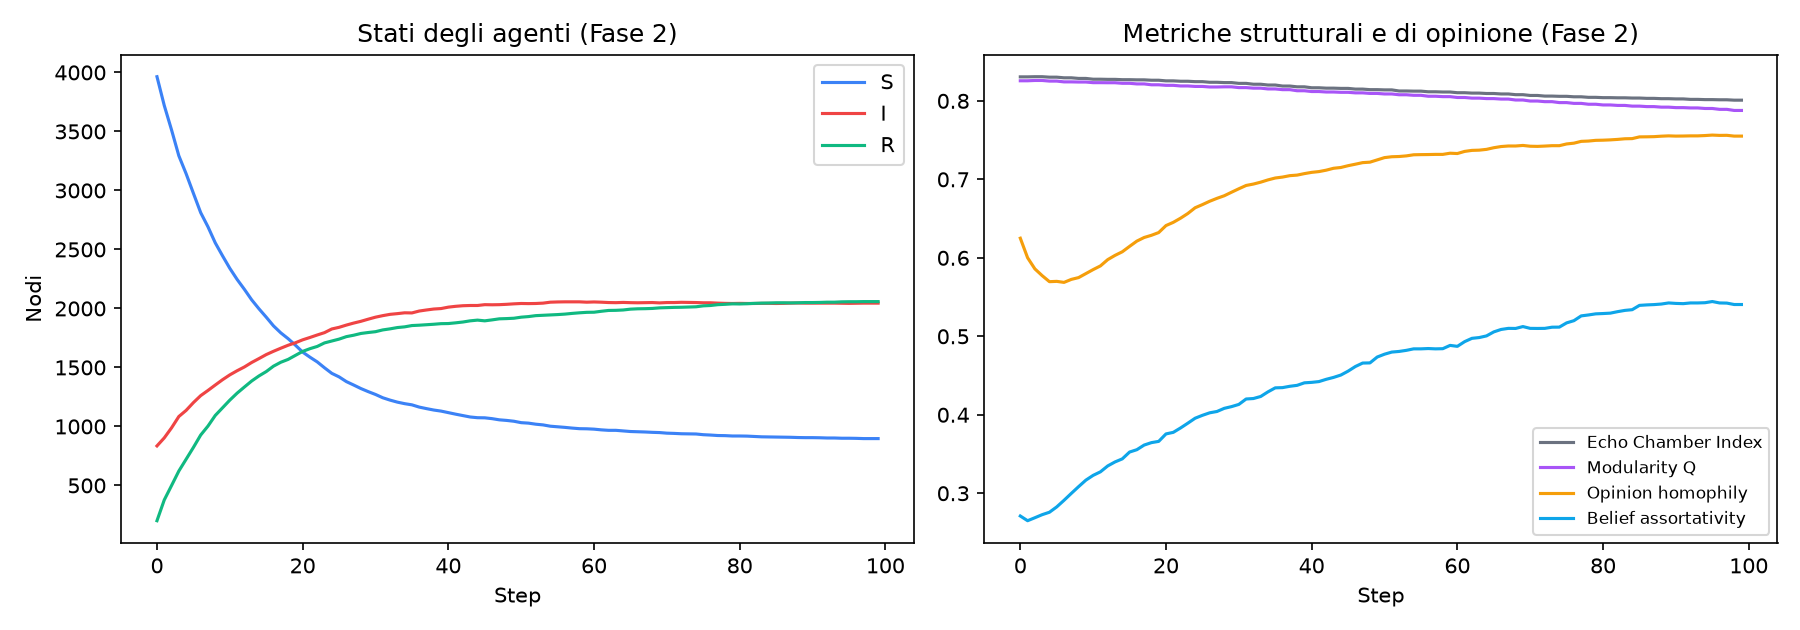
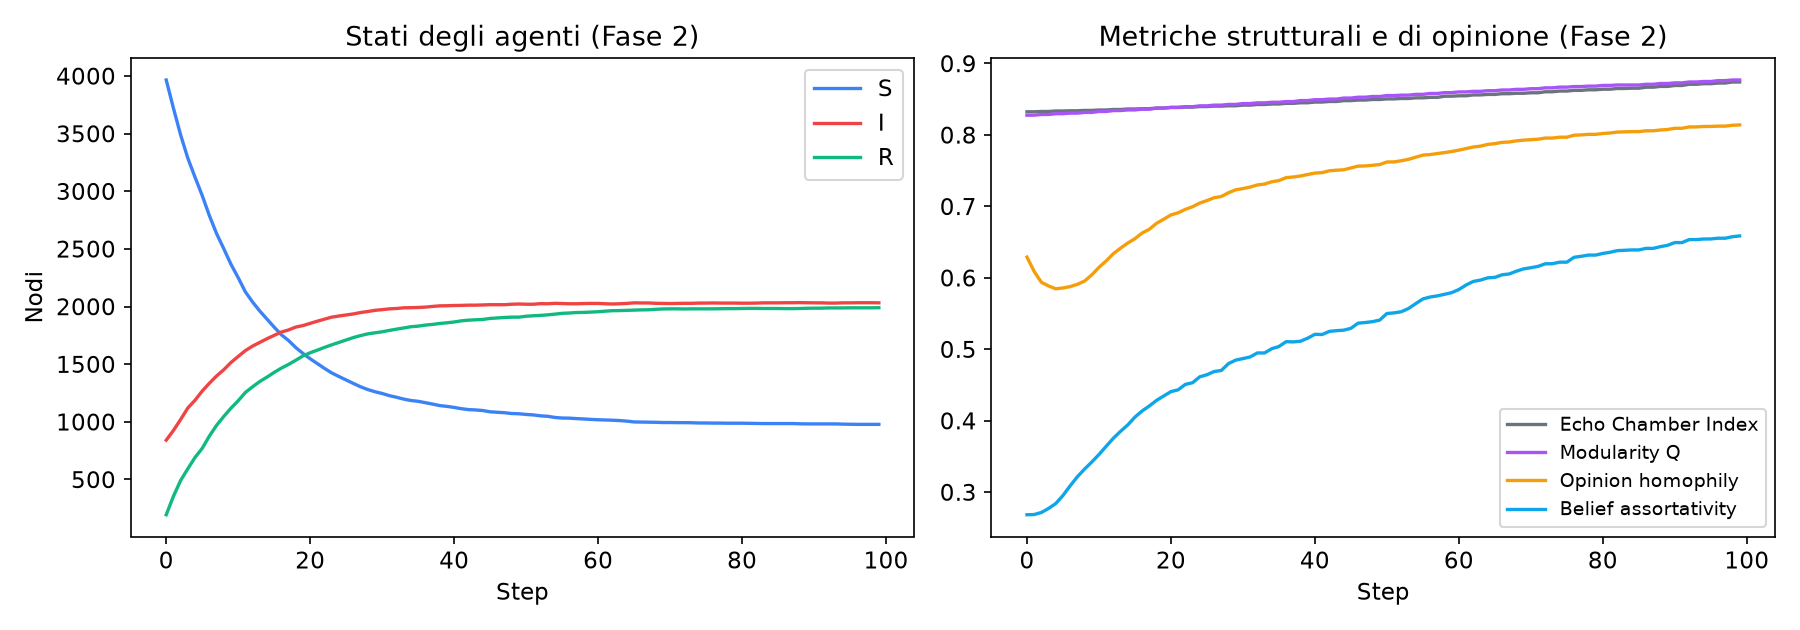
docs: update report and README with Phase 2 and Phase 3 results of the new run
- README: results section with Phase 2 trajectory and intervention vs control
- Report: Phase 2 table and text (ECI and modularity now rise), Phase 3
  comparison, network figure, conclusions and pipeline summary updated
- Regenerate Phase 2 and Phase 3 figures from the new CSVs
- Replace references to the non-existent phase3_run.py and compare_phase3.py
  with the notebook cells
- Rename control metrics to metrics_history_control.csv so the comparison
  cell finds it

diff --git a/relazione/progettoASM_relazione.tex b/relazione/progettoASM_relazione.tex
@@ -230,7 +230,7 @@ La tabella seguente riporta il confronto quantitativo dettagliato tra le due ret
     \label{tab:validazione-strutturale}
 \end{table}
 
-Il rapporto di campionamento risulta pari al 2.1\% dei nodi originali. Dal punto di vista computazionale, il calcolo delle metriche sul grafo completo ha richiesto circa 110.4 secondi, contro appena 0.4 secondi per il sottografo, con un guadagno di efficienza di oltre due ordini di grandezza. Nel complesso, i valori di clustering e grado medio si mantengono coerenti tra le due reti (scostamenti contenuti entro il $\pm 30\%$), a conferma della bontà del campionamento; l'aumento della modularità nel sottografo ($+18.8\%$) è in parte un effetto atteso della riduzione di scala, che tende a rendere più nette le partizioni in comunità più piccole e numericamente meno frammentate.
+Il rapporto di campionamento risulta pari al 2.1\% dei nodi originali. Dal punto di vista computazionale, il calcolo delle metriche sul grafo completo ha richiesto circa 114 secondi, contro appena 0.4 secondi per il sottografo, con un guadagno di efficienza di oltre due ordini di grandezza. Nel complesso, i valori di clustering e grado medio si mantengono coerenti tra le due reti (scostamenti contenuti entro il $\pm 30\%$), a conferma della bontà del campionamento; l'aumento della modularità nel sottografo ($+18.8\%$) è in parte un effetto atteso della riduzione di scala, che tende a rendere più nette le partizioni in comunità più piccole e numericamente meno frammentate.
 
 \subsubsection{Metriche Baseline del Sottografo}
 Una volta completata l'estrazione, il modulo \texttt{metrics} calcola l'intero set di metriche baseline sul sottografo di lavoro (5000 nodi), che costituiscono il punto di riferimento (t=0) rispetto al quale verrà misurata l'evoluzione della rete nelle fasi successive.
@@ -431,22 +431,22 @@ L'esecuzione documentata usa l'LLM reale in tutte le fasi. La Fase 2 comprende 1
         \toprule
         \textbf{Step} & \textbf{S} & \textbf{I} & \textbf{R} & \textbf{ECI} & \textbf{Mod. Q} & \textbf{Op. homophily} & \textbf{Belief assort.} \\
         \midrule
-        0  & 3\,964 & 835    & 201    & 0.831 & 0.826 & 0.625 & 0.271 \\
-        25 & 1\,420 & 1\,840 & 1\,740 & 0.825 & 0.818 & 0.668 & 0.399 \\
-        49 & 1\,044 & 2\,039 & 1\,917 & 0.814 & 0.810 & 0.725 & 0.474 \\
-        75 & 930    & 2\,048 & 2\,022 & 0.806 & 0.798 & 0.745 & 0.517 \\
-        99 & 897    & 2\,045 & 2\,058 & 0.801 & 0.788 & 0.755 & 0.541 \\
+        0  & 3\,965 & 841    & 194    & 0.832 & 0.828 & 0.629 & 0.268 \\
+        25 & 1\,363 & 1\,927 & 1\,710 & 0.840 & 0.841 & 0.708 & 0.464 \\
+        49 & 1\,070 & 2\,022 & 1\,908 & 0.850 & 0.854 & 0.759 & 0.541 \\
+        75 & 990    & 2\,030 & 1\,980 & 0.861 & 0.867 & 0.797 & 0.622 \\
+        99 & 978    & 2\,032 & 1\,990 & 0.874 & 0.877 & 0.814 & 0.659 \\
         \bottomrule
     \end{tabular}
     \caption{Andamento della Fase 2 a intervalli di circa 25 step.}
     \label{tab:fase2}
 \end{table}
 
-Il grafico di sinistra mostra un tipico andamento epidemico. La popolazione Suscettibile decresce da 3\,964 a 897 unità; gli Infetti crescono rapidamente nei primi 50 step e poi si stabilizzano intorno al 41\% dei nodi (picco di 2\,056 infetti allo step 56). I Resistenti continuano a crescere più a lungo e alla fine superano gli Infetti (2\,058 contro 2\,045).
+Il grafico di sinistra mostra un tipico andamento epidemico. La popolazione Suscettibile decresce da 3\,965 a 978 unità; gli Infetti superano i Suscettibili già allo step 16, crescono rapidamente nei primi 30 step e poi si stabilizzano intorno al 41\% dei nodi (picco di 2\,034 infetti allo step 88). I Resistenti crescono con lo stesso andamento ma restano sempre leggermente sotto gli Infetti (1\,990 contro 2\,032 allo step 99).
 
-Il grafico di destra mette a confronto due letture della segregazione. Le metriche strutturali calano leggermente: la modularità passa da 0.826 a 0.788 e l'Echo Chamber Index da 0.831 a 0.801. Le metriche di opinione crescono invece in modo marcato: la belief assortativity raddoppia (da 0.27 a 0.54) e l'opinion homophily sale da 0.63 a 0.76. I nodi tendono quindi sempre più a essere connessi a chi la pensa come loro, ma le echo chamber che emergono non coincidono con le community iniziali della rete di co-autoraggio: si formano lungo le opinioni.
+Il grafico di destra mette a confronto due letture della segregazione, che in questa run crescono entrambe. Le metriche strutturali salgono in modo graduale e regolare: la modularità passa da 0.828 a 0.877 e l'Echo Chamber Index da 0.832 a 0.874. Le metriche di opinione crescono in modo molto più marcato: la belief assortativity sale da 0.27 a 0.66 (circa due volte e mezzo) e l'opinion homophily da 0.63 a 0.81, dopo un calo iniziale nei primi 4 step dovuto alla prima ondata di contagio. Il rewiring guidato dalla GNN rafforza quindi le community esistenti della rete di co-autoraggio e, in misura maggiore, raggruppa i nodi che condividono la stessa opinione.
 
-Il rewiring sostituisce complessivamente 2\,500 archi in 100 step, circa il 10\% della rete, a densità costante (26\,246 archi). Alla fine della Fase 2 la rete conta 46 componenti connesse invece di una: il vincolo di sicurezza impedisce di isolare singoli nodi, ma il rewiring può staccare piccoli gruppi dal resto della rete.
+Il rewiring sostituisce complessivamente 2\,500 archi in 100 step, circa il 10\% della rete, a densità costante (26\,246 archi). Alla fine della Fase 2 la rete conta 86 componenti connesse invece di una: il vincolo di sicurezza impedisce di isolare singoli nodi, ma il rewiring può staccare piccoli gruppi dal resto della rete.
 
 \subsection{Fase 3: Intervento e Fact-Checking}
 L'ultima fase simula una contromisura strategica contro la diffusione della narrazione polarizzante.
@@ -457,18 +457,18 @@ L'ultima fase simula una contromisura strategica contro la diffusione della narr
 
 La Fase 3 — \textit{Deployment \& Fact-Checking} — ha lo scopo di valutare l'efficacia delle strategie di contrasto alla disinformazione all'interno della rete sociale simulata. Introduce un sottoinsieme di agenti con il ruolo di Fact-Checker (stato F), con l'obiettivo di frenare l'infezione della narrazione polarizzante e spingere gli agenti infetti (I) o suscettibili (S) a diventare resistenti (R).
 
-\paragraph{Disegno sperimentale: intervento e controllo.} Un semplice confronto ``prima/dopo'' su una sola run mescolerebbe l'effetto dei fact-checker con l'evoluzione spontanea della rete, che continua a cambiare anche senza intervento. Per isolare l'effetto, la Fase 3 viene eseguita due volte a partire dallo stesso checkpoint di fine Fase 2 e per lo stesso numero di step: una run con l'iniezione dei fact-checker e una run di controllo senza (\texttt{CONTROL\_RUN = True}, oppure \texttt{phase3\_run.py --no-celf}). Grazie al seed per richiesta dell'LLM, le due run ricevono le stesse risposte finché i prompt coincidono. L'effetto dell'intervento è la differenza tra le due run allo stesso step.
+\paragraph{Disegno sperimentale: intervento e controllo.} Un semplice confronto ``prima/dopo'' su una sola run mescolerebbe l'effetto dei fact-checker con l'evoluzione spontanea della rete, che continua a cambiare anche senza intervento. Per isolare l'effetto, la Fase 3 viene eseguita due volte a partire dallo stesso checkpoint di fine Fase 2 e per lo stesso numero di step: una run con l'iniezione dei fact-checker e una run di controllo senza (\texttt{CONTROL\_RUN = True} nel notebook). Grazie al seed per richiesta dell'LLM, le due run ricevono le stesse risposte finché i prompt coincidono. L'effetto dell'intervento è la differenza tra le due run allo stesso step.
 
-\subsubsection{Il Flusso di Esecuzione in phase3\_run.py}
+\subsubsection{Il Flusso di Esecuzione della Fase 3}
 Il processo si sviluppa attraverso sette passaggi logici:
 \begin{enumerate}
-    \item \textbf{Ripristino dello stato:} lo script \texttt{phase3\_run.py} inizializza il \texttt{CheckpointManager} e l'orchestratore \texttt{SimulationOrchestrator} per ricaricare l'ultimo checkpoint salvato al termine della Fase 2 (co-evoluzione).
+    \item \textbf{Ripristino dello stato:} il notebook inizializza il \texttt{CheckpointManager} e l'orchestratore \texttt{SimulationOrchestrator} per ricaricare l'ultimo checkpoint salvato al termine della Fase 2 (co-evoluzione).
     \item \textbf{Calcolo della baseline pre-intervento:} vengono calcolate le metriche strutturali e di opinione correnti (Infection Rate, modularità Q, Echo Chamber Index, polarizzazione, omofilia e assortatività delle opinioni) per registrare lo stato della rete prima dell'iniezione.
     \item \textbf{Verifica della soglia e selezione dei seed:} l'intervento si attiva se l'infection rate supera \texttt{activation\_threshold} (0.4); il parametro \texttt{FORCE\_INJECTION} consente di iniettare comunque, registrandolo nel report. Vengono poi selezionati i $k$ nodi in cui posizionare i fact-checker. Nella run di controllo questo passaggio e il successivo vengono saltati.
     \item \textbf{Iniezione dei fact-checker:} la classe \texttt{FactCheckerInjector} converte lo stato dei nodi selezionati in F e vi inserisce un post iniziale di fact-checking per attivare la propagazione nei feed dei rispettivi vicini; lo stato degli agenti viene poi sincronizzato con il grafo (\texttt{sync\_agent\_states}).
     \item \textbf{Simulazione post-intervento:} l'orchestratore fa avanzare la simulazione per $N$ step post-intervento, ripartendo dallo step successivo all'ultimo della Fase 2. Durante questa fase gli agenti vicini ai nodi F leggono i post correttivi e, in base alle soglie e al loro livello cognitivo di suscettibilità, possono transitare in R. Gli step vengono eseguiti dalla stessa istanza dell'\texttt{SimulationOrchestrator}, con lo stesso LLM reale (server vLLM locale) impiegato nelle fasi precedenti.
     \item \textbf{Confronto delle metriche:} viene calcolato il report finale con le metriche di fine run, le metriche dei fact-checker e le variazioni rispetto alla baseline pre-intervento.
-    \item \textbf{Salvataggio del report:} tutti i dati dell'intervento (inclusi i node ID scelti e la stima dei nodi coperti) vengono scritti in \texttt{results/phase3\_report.json}, oppure in \texttt{results/phase3\_report\_control.json} per la run di controllo. Lo script \texttt{scripts/compare\_phase3.py} confronta infine le due run e salva l'effetto dell'intervento in \texttt{results/phase3\_comparison.json}.
+    \item \textbf{Salvataggio del report:} tutti i dati dell'intervento (inclusi i node ID scelti e la stima dei nodi coperti) vengono scritti in \texttt{results/phase3\_report.json}, oppure in \texttt{results/phase3\_report\_control.json} per la run di controllo. L'ultima cella del notebook (\textit{Confronto Intervento vs Controllo}) confronta infine le due run, usando solo i report con il flag \texttt{control\_run} atteso e almeno uno step di Fase 3, e salva l'effetto dell'intervento in \texttt{results/phase3\_comparison.json}.
 \end{enumerate}
 
 \subsubsection{Moduli Richiamati nella Fase 3}
@@ -499,7 +499,7 @@ La Fase 3 si appoggia sul sottosistema di mitigazione dell'influenza ideologica 
 \end{itemize}
 
 \subsubsection{Risultati: Intervento a Confronto con il Controllo}
-Entrambe le run partono dal checkpoint dello step 99 ed eseguono 30 step post-intervento (step 100--129), con \texttt{CELF\_BUDGET\_K = 20}. L'intervento è partito con un infection rate di 0.409, sopra la soglia di attivazione (0.4), quindi senza forzature. La selezione con obiettivo \texttt{threshold} ha scelto 20 nodi suscettibili, con una stima di 163 nodi coperti.
+Entrambe le run partono dal checkpoint dello step 99 ed eseguono 30 step post-intervento (step 100--129), con \texttt{CELF\_BUDGET\_K = 20}. L'intervento è partito con un infection rate di 0.406, sopra la soglia di attivazione (0.4), quindi senza forzature. La selezione con obiettivo \texttt{threshold} ha scelto 20 nodi suscettibili, con una stima di 162 nodi coperti.
 
 \begin{table}[h]
     \centering
@@ -508,16 +508,16 @@ Entrambe le run partono dal checkpoint dello step 99 ed eseguono 30 step post-in
         \toprule
         \textbf{Metrica (step 129)} & \textbf{Con fact-checker} & \textbf{Controllo} & \textbf{Effetto} \\
         \midrule
-        Nodi S               & 699    & 855    & $-156$ (di cui 20 seed divenuti F) \\
-        Nodi I               & 2\,040 & 2\,056 & $-16$ \\
-        Nodi R               & 2\,241 & 2\,089 & $+152$ \\
-        Infection Rate       & 0.408  & 0.411  & $-0.003$ \\
-        Belief Assortativity & 0.557  & 0.544  & $+0.013$ \\
-        Opinion Homophily    & 0.756  & 0.756  & $0.000$ \\
-        Belief Polarisation  & 0.858  & 0.829  & $+0.029$ \\
-        Echo Chamber Index   & 0.791  & 0.792  & $-0.001$ \\
-        Modularity Q         & 0.774  & 0.777  & $-0.004$ \\
-        Transizioni in 30 step & 191  & 59     & $+132$ \\
+        Nodi S               & 798    & 974    & $-176$ (di cui 20 seed divenuti F) \\
+        Nodi I               & 2\,020 & 2\,024 & $-4$ \\
+        Nodi R               & 2\,162 & 2\,002 & $+160$ \\
+        Infection Rate       & 0.404  & 0.405  & $-0.001$ \\
+        Belief Assortativity & 0.704  & 0.692  & $+0.012$ \\
+        Opinion Homophily    & 0.831  & 0.831  & $0.000$ \\
+        Belief Polarisation  & 0.839  & 0.805  & $+0.034$ \\
+        Echo Chamber Index   & 0.886  & 0.886  & $0.000$ \\
+        Modularity Q         & 0.883  & 0.884  & $0.000$ \\
+        Transizioni in 30 step & 177  & 17     & $+160$ \\
         \bottomrule
     \end{tabular}
     \caption{Effetto dell'intervento allo step 129: run con 20 fact-checker a confronto con la run di controllo partita dallo stesso checkpoint.}
@@ -527,7 +527,7 @@ Entrambe le run partono dal checkpoint dello step 99 ed eseguono 30 step post-in
 \begin{figure}[h]
     \centering
     \includegraphics[width=\textwidth]{fase3_confronto.png}
-    \caption{Evoluzione dei nodi Suscettibili (sinistra) e Infetti (destra) dallo step 99 allo step 129, nella run con fact-checker (linea continua) e nella run di controllo (linea tratteggiata).}
+    \caption{Evoluzione dei nodi Suscettibili (sinistra), Infetti (centro) e Resistenti (destra) dallo step 99 allo step 129, nella run con fact-checker (linea continua) e nella run di controllo (linea tratteggiata). Le scale verticali sono diverse: la variazione degli Infetti è di pochi nodi.}
     \label{fig:fase3-confronto}
 \end{figure}
 
@@ -538,27 +538,27 @@ Entrambe le run partono dal checkpoint dello step 99 ed eseguono 30 step post-in
         \toprule
         \textbf{Step} & \textbf{S (FC)} & \textbf{S (controllo)} & \textbf{I (FC)} & \textbf{I (controllo)} \\
         \midrule
-        99  & 897 & 897 & 2\,045 & 2\,045 \\
-        100 & 856 & 896 & 2\,045 & 2\,045 \\
-        105 & 782 & 891 & 2\,044 & 2\,045 \\
-        110 & 746 & 883 & 2\,043 & 2\,045 \\
-        119 & 718 & 875 & 2\,041 & 2\,048 \\
-        129 & 699 & 855 & 2\,040 & 2\,056 \\
+        99  & 978 & 978 & 2\,032 & 2\,032 \\
+        100 & 936 & 977 & 2\,032 & 2\,032 \\
+        105 & 855 & 976 & 2\,031 & 2\,030 \\
+        110 & 826 & 976 & 2\,029 & 2\,028 \\
+        120 & 807 & 975 & 2\,024 & 2\,025 \\
+        129 & 798 & 974 & 2\,020 & 2\,024 \\
         \bottomrule
     \end{tabular}
     \caption{Andamento di Suscettibili e Infetti nelle due run (FC = run con fact-checker).}
     \label{tab:fase3-andamento}
 \end{table}
 
-Alla fine della run, i 20 fact-checker raggiungono direttamente 256 nodi (12.8 per fact-checker in media), mentre i nodi su cui la loro pressione supera ancora le soglie di transizione sono soltanto 9 (copertura efficace dello 0.18\%): gran parte dei vicini raggiungibili è già stata convertita nei primi step.
+Alla fine della run, i 20 fact-checker raggiungono direttamente 194 nodi (9.7 per fact-checker in media), mentre i nodi su cui la loro pressione supera ancora le soglie di transizione sono soltanto 5 (copertura efficace dello 0.10\%): gran parte dei vicini raggiungibili è già stata convertita nei primi step.
 
 \subsubsection{Conclusioni sull'Efficacia dell'Intervento}
 Il confronto con il controllo restituisce un quadro netto su un fronte e più sfumato sugli altri.
 
 \begin{itemize}[leftmargin=*]
-    \item \textbf{Protezione dei suscettibili:} è l'effetto principale. I fact-checker convertono in resistenti 136 suscettibili in più rispetto al controllo (156 meno i 20 seed), quasi tutti nei primi 10 step: circa 20 per step all'inizio, 2--3 alla fine. La stima della selezione (163 nodi coperti) era quindi nell'ordine di grandezza corretto.
-    \item \textbf{Infetti:} l'effetto diretto è quasi nullo, perché un infetto si converte solo se almeno un quarto dei suoi vicini è fact-checker. Emerge però un effetto indiretto che cresce nel tempo: nel controllo gli infetti continuano a salire (da 2\,045 a 2\,056), mentre con i fact-checker scendono leggermente (a 2\,040). I suscettibili protetti non sono più contagiabili, quindi la differenza aumenta step dopo step (da 0 a $-16$).
-    \item \textbf{Echo chamber:} l'intervento non le riduce e anzi aumenta leggermente la belief assortativity ($+0.013$). I nodi protetti diventano resistenti accanto ad altri resistenti, rafforzando i gruppi di opinione esistenti. Anche la polarizzazione cresce ($+0.029$), perché nodi neutrali (S) passano a una posizione netta (R).
+    \item \textbf{Protezione dei suscettibili:} è l'effetto principale. I fact-checker convertono in resistenti 156 suscettibili in più rispetto al controllo (176 meno i 20 seed), quasi tutti nei primi 10 step: 135 delle 177 transizioni avvengono negli step 100--109, con 14--23 transizioni per step all'inizio e 0--4 alla fine. La stima della selezione (162 nodi coperti) coincide quasi esattamente con i resistenti in più rispetto al controllo ($+160$).
+    \item \textbf{Infetti:} l'effetto è trascurabile, perché un infetto si converte solo se almeno un quarto dei suoi vicini è fact-checker. Gli infetti calano di poco in entrambe le run (da 2\,032 a 2\,020 con i fact-checker, a 2\,024 nel controllo): la differenza finale di $-4$ nodi si forma solo negli ultimi 15 step e non è distinguibile dalla variabilità della singola run.
+    \item \textbf{Echo chamber:} l'intervento non le riduce e anzi aumenta leggermente la belief assortativity ($+0.012$). I nodi protetti diventano resistenti accanto ad altri resistenti, rafforzando i gruppi di opinione esistenti. Anche la polarizzazione cresce ($+0.034$), perché nodi neutrali (S) passano a una posizione netta (R).
     \item \textbf{Struttura:} Echo Chamber Index e modularità sono praticamente uguali nelle due run. L'intervento agisce sulle opinioni, non sulla topologia della rete.
     \item \textbf{Sproporzione tra budget e scala della rete:} 20 fact-checker rappresentano lo 0.4\% della popolazione, introdotti quando gli infetti sono già oltre 2\,000 e la loro crescita si è stabilizzata. Con le regole del modello, un budget così ridotto e tardivo può proteggere chi non è ancora stato contagiato, ma non recuperare una popolazione infetta già consolidata.
 \end{itemize}
@@ -576,19 +576,19 @@ A completamento dell'analisi quantitativa, è utile osservare direttamente l'evo
 \begin{figure}[h]
     \centering
     \includegraphics[width=\textwidth]{rete_iniziale_finale.png}
-    \caption{Confronto tra la topologia della rete allo step iniziale (sinistra, 150 nodi campionati sugli hub, 1\,345 archi) e allo step 129 (destra, stesso campione, 1\,329 archi), al termine della co-evoluzione. L'immagine si riferisce alla run di controllo; la topologia della run con intervento è praticamente identica, come confermano ECI e modularità.}
+    \caption{Confronto tra la topologia della rete allo step iniziale (sinistra, 150 nodi campionati sugli hub, 1\,345 archi) e allo step 129 (destra, stesso campione, 1\,588 archi), al termine della co-evoluzione. L'immagine si riferisce alla run di controllo; la topologia della run con intervento è praticamente identica, come confermano ECI e modularità.}
     \label{fig:rete-iniziale-finale}
 \end{figure}
 
 Il confronto visivo conferma quanto osservato nelle metriche aggregate delle Fasi 2 e 3. Nella rete iniziale (sinistra) il campione si presenta come un insieme di piccoli cluster densi e ben separati tra loro, con pochissimi legami di lungo raggio: la struttura a compartimenti stagni tipica di una rete di co-autoraggio accademico organizzata per sotto-discipline. Nella rete finale (destra), a parità di nodi, emergono alcuni elementi distintivi:
 
 \begin{itemize}[leftmargin=*]
-    \item \textbf{Ridistribuzione degli archi a densità costante:} il numero di archi del campione resta quasi invariato (da 1\,345 a 1\,329, $-1.2\%$), coerentemente con il rewiring di tipo \texttt{swap}, che sostituisce archi senza aggiungerne. Il cambiamento non è quindi nella quantità dei legami, ma in quali coppie di nodi collegano.
-    \item \textbf{Nuovi legami tra cluster vicini:} nel gruppo in alto a sinistra compaiono collegamenti che uniscono sotto-gruppi prima connessi in modo più lasco. È l'effetto del rewiring guidato dalla GNN: nuovi archi nascono tra agenti che hanno sviluppato posizioni simili nello spazio degli embedding, mentre si perdono gli archi con lo score più basso.
-    \item \textbf{Stabilità del nucleo centrale e della periferia:} il cluster principale e i nodi periferici a basso grado (coppie isolate o singoli nodi) restano sostanzialmente invariati. Sui 150 hub osservati, il rewiring agisce in modo selettivo e non stravolge la struttura locale.
+    \item \textbf{Concentrazione degli archi sugli hub:} la rete nel suo complesso mantiene la stessa densità (26\,246 archi), ma il campione di hub guadagna archi (da 1\,345 a 1\,588, $+18\%$). Il rewiring sostituisce archi senza aggiungerne: quelli nuovi tendono a collegare nodi centrali, mentre quelli rimossi stanno altrove nella rete.
+    \item \textbf{Cluster più compatti:} i nuovi archi si concentrano all'interno dei cluster già esistenti, che risultano più densi, invece di creare ponti tra gruppi diversi. È l'effetto del rewiring guidato dalla GNN: nuovi archi nascono tra agenti che hanno sviluppato posizioni simili nello spazio degli embedding, ed è coerente con la crescita di modularità ed Echo Chamber Index.
+    \item \textbf{Stabilità della periferia:} i nodi periferici a basso grado (coppie isolate o singoli nodi) restano sostanzialmente invariati. Sui 150 hub osservati, il rewiring non stravolge la disposizione dei gruppi, ma ne aumenta la coesione interna.
 \end{itemize}
 
-Questo pattern visivo è coerente con il quadro emerso dalle metriche numeriche: il rewiring della GNN non stravolge la topologia della rete, ma la ``rifinisce'' selettivamente, sostituendo circa il 10\% degli archi in 100 step e riorganizzando i legami lungo le opinioni piuttosto che lungo le community originarie. L'intervento di fact-checking, nella finestra osservata, agisce invece sul livello cognitivo (stati e opinioni) e non sulla struttura fisica del grafo.
+Questo pattern visivo è coerente con il quadro emerso dalle metriche numeriche: il rewiring della GNN non stravolge la topologia della rete, ma la ``rifinisce'' selettivamente, sostituendo circa il 10\% degli archi in 100 step e rendendo più coesi sia le community originarie sia, in misura maggiore, i gruppi di opinione. L'intervento di fact-checking, nella finestra osservata, agisce invece sul livello cognitivo (stati e opinioni) e non sulla struttura fisica del grafo.
 
 \subsection{Conclusioni Generali}
 La pipeline implementata in \texttt{progettoASM} rappresenta un solido paradigma di simulazione sociale in cui l'intelligenza artificiale generativa smette di essere un semplice strumento di supporto e diviene il motore stesso dell'evoluzione di rete.
@@ -597,13 +597,13 @@ L'architettura, attraverso la successione ordinata delle fasi, mostra come la co
 
 I risultati principali si possono riassumere in quattro punti:
 \begin{enumerate}
-    \item Gli agenti LLM producono una dinamica di diffusione realistica: crescita rapida, saturazione intorno al 41\% dei nodi e comparsa spontanea di resistenti, che alla fine superano gli infetti.
-    \item La co-evoluzione genera echo chamber di \textbf{opinione} (belief assortativity da 0.27 a 0.54), mentre la struttura per community si indebolisce. Misurate solo con l'Echo Chamber Index strutturale, le echo chamber sarebbero sembrate in diminuzione: è necessario affiancare metriche basate sulle opinioni.
-    \item Un intervento tardivo con 20 fact-checker (0.4\% dei nodi) protegge una parte consistente dei suscettibili, ma lascia quasi invariata la popolazione infetta già consolidata. Con le regole del modello, il fact-checking funziona come prevenzione più che come cura.
+    \item Gli agenti LLM producono una dinamica di diffusione realistica: crescita rapida, saturazione intorno al 41\% dei nodi e comparsa spontanea di resistenti, che arrivano quasi a pareggiare gli infetti.
+    \item La co-evoluzione rafforza le echo chamber, soprattutto quelle di \textbf{opinione}: la belief assortativity sale da 0.27 a 0.66, mentre l'Echo Chamber Index strutturale cresce in misura molto minore (da 0.83 a 0.87). L'indice strutturale da solo sottostimerebbe la segregazione: è necessario affiancare metriche basate sulle opinioni.
+    \item Un intervento tardivo con 20 fact-checker (0.4\% dei nodi) protegge circa 160 suscettibili (il 16\% di quelli rimasti), in linea con la stima della selezione, ma lascia invariata la popolazione infetta già consolidata. Con le regole del modello, il fact-checking funziona come prevenzione più che come cura.
     \item L'intervento non riduce la polarizzazione: la rafforza leggermente, perché sposta nodi neutrali su posizioni nette.
 \end{enumerate}
 
-\paragraph{Limitazioni.} Ogni configurazione è stata eseguita una sola volta: con un costo di circa 6 minuti per step non è stato possibile ripetere le run con seed diversi, e gli effetti più piccoli richiederebbero repliche per essere confermati. Il seed per richiesta rende ripetibili le risposte a parità di prompt, ma vLLM non garantisce il determinismo completo con batching variabile. L'obiettivo di selezione dei seed considera l'effetto immediato dei fact-checker sui vicini, non la dinamica futura (ricadute, rewiring, risposte dell'LLM). Infine, il rewiring a densità costante ha staccato dalla rete 45 piccoli gruppi di nodi: un vincolo di connettività sulle rimozioni renderebbe la rete più realistica.
+\paragraph{Limitazioni.} Ogni configurazione è stata eseguita una sola volta: con un costo di circa 6 minuti per step non è stato possibile ripetere le run con seed diversi, e gli effetti più piccoli richiederebbero repliche per essere confermati. Il seed per richiesta rende ripetibili le risposte a parità di prompt, ma vLLM non garantisce il determinismo completo con batching variabile. L'obiettivo di selezione dei seed considera l'effetto immediato dei fact-checker sui vicini, non la dinamica futura (ricadute, rewiring, risposte dell'LLM). Infine, il rewiring a densità costante ha staccato dalla rete 85 piccoli gruppi di nodi in 100 step (153 allo step 129): un vincolo di connettività sulle rimozioni renderebbe la rete più realistica.
 
 I risultati ottenuti, archiviati in \texttt{metrics\_history.csv}, \texttt{metrics\_history\_control.csv} e nei report della Fase 3, costituiscono la base per ulteriori indagini scientifiche. In futuro, il sistema potrà essere esteso integrando algoritmi di \textit{GNN Explainer} per interpretare visivamente quali legami stiano effettivamente guidando la polarizzazione, testando diverse architetture di agenti LLM per osservare se differenti ``personalità'' algoritmiche conducano a velocità di convergenza verso l'omofilia sensibilmente diverse, o esplorando budget di fact-checker più ampi e finestre di attivazione più precoci, prima che il contagio si stabilizzi, per verificare a quali condizioni l'intervento riesca a ridurre anche la popolazione infetta.
 
@@ -617,12 +617,12 @@ Al termine di ciascuna run, la pipeline stampa un riepilogo consuntivo che racco
     Archi            & 26\,246 & 26\,246 \\
     Community        & 415 (Q baseline $= 0.8265$) & 415 (Q baseline $= 0.8265$) \\
     Step Fase 2      & 100 & 100 \\
-    Infection rate   & $0.4090 \rightarrow 0.4080$ & $0.4090 \rightarrow 0.4112$ \\
-    ECI              & $0.8009 \rightarrow 0.7908$ & $0.8009 \rightarrow 0.7923$ \\
+    Infection rate   & $0.4064 \rightarrow 0.4040$ & $0.4064 \rightarrow 0.4048$ \\
+    ECI              & $0.8741 \rightarrow 0.8855$ & $0.8741 \rightarrow 0.8858$ \\
     Seed fact-checker & 20 nodi & 0 nodi \\
-    Copertura efficace & 0.0018 & 0.0000 \\
+    Copertura efficace & 0.0010 & 0.0000 \\
 \end{tabular}
 \end{tcolorbox}
 
-Il riepilogo conferma, in forma aggregata, il quadro delineato nelle sezioni precedenti: la rete parte da una condizione di forte segregazione comunitaria (415 community, $Q=0.8265$); nei 30 step finali l'infection rate cresce leggermente nel controllo e scende leggermente con i fact-checker, mentre l'ECI cala in modo quasi identico nelle due run, a riprova che l'intervento incide sulla dimensione cognitiva e non su quella strutturale della rete.
+Il riepilogo conferma, in forma aggregata, il quadro delineato nelle sezioni precedenti: la rete parte da una condizione di forte segregazione comunitaria (415 community, $Q=0.8265$); nei 30 step finali l'infection rate scende di pochi millesimi in entrambe le run, mentre l'ECI cresce in modo quasi identico nelle due run, a riprova che l'intervento incide sulla dimensione cognitiva e non su quella strutturale della rete.
 \end{document}

diff --git a/README.md b/README.md
@@ -202,13 +202,50 @@ CELF sceglie `CELF_BUDGET_K` nodi suscettibili e li converte in fact-checker (st
 
 ## Risultati
 
-*In attesa della run.* Al termine delle quattro sessioni saranno disponibili:
+Run documentata: sottografo di 5.000 nodi, Fase 2 di 100 step (0–99), due run di Fase 3 di 30 step (100–129) partite dallo stesso checkpoint, con LLM reale (`casperhansen/llama-3-8b-instruct-awq`).
+
+### Fase 2 — Co-evoluzione
+
+| Step | S | I | R | ECI | Modularity Q | Opinion homophily | Belief assortativity |
+|---|---|---|---|---|---|---|---|
+| 0 | 3965 | 841 | 194 | 0.832 | 0.828 | 0.629 | 0.268 |
+| 49 | 1070 | 2022 | 1908 | 0.850 | 0.854 | 0.759 | 0.541 |
+| 99 | 978 | 2032 | 1990 | 0.874 | 0.877 | 0.814 | 0.659 |
+
+- Il contagio satura intorno al 41% dei nodi (picco di 2034 infetti allo step 88); i resistenti crescono con lo stesso andamento e restano poco sotto gli infetti.
+- La segregazione cresce su entrambi i fronti, ma molto più sulle opinioni (belief assortativity da 0.27 a 0.66) che sulla struttura (ECI da 0.83 a 0.87).
+- Il rewiring sostituisce 2500 archi (circa il 10% della rete) a densità costante; a fine Fase 2 la rete ha 86 componenti connesse.
+
+### Fase 3 — Intervento vs controllo (step 129)
+
+CELF (obiettivo `threshold`, `CELF_BUDGET_K=20`) ha scelto 20 suscettibili con una stima di 162 nodi coperti. L'infection rate di partenza (0.406) superava la soglia di attivazione, quindi l'iniezione non è stata forzata.
+
+| Metrica | Con fact-checker | Controllo | Effetto |
+|---|---|---|---|
+| Nodi S | 798 | 974 | −176 (di cui 20 seed divenuti F) |
+| Nodi I | 2020 | 2024 | −4 |
+| Nodi R | 2162 | 2002 | +160 |
+| Infection rate | 0.4040 | 0.4048 | −0.0008 |
+| Echo Chamber Index | 0.8855 | 0.8858 | −0.0003 |
+| Modularity Q | 0.8831 | 0.8835 | −0.0004 |
+| Opinion homophily | 0.8305 | 0.8306 | −0.0001 |
+| Belief assortativity | 0.7042 | 0.6922 | +0.0119 |
+| Belief polarisation | 0.8394 | 0.8052 | +0.0342 |
+| Transizioni in 30 step | 177 | 17 | +160 |
+
+- **Protezione dei suscettibili**: circa 156 suscettibili in più diventano resistenti, in linea con la stima di CELF. L'effetto si esaurisce presto: 135 delle 177 transizioni avvengono nei primi 10 step e a fine run la copertura efficace è di 5 nodi.
+- **Infetti**: effetto trascurabile (−4 nodi). Un infetto si converte solo se almeno il 25% dei vicini è fact-checker, condizione che 20 seed su 5000 nodi non raggiungono quasi mai.
+- **Echo chamber e struttura**: ECI, modularità e homophily sono uguali nelle due run; l'intervento agisce sugli stati, non sulla topologia. Assortativity e polarizzazione crescono leggermente perché nodi neutrali (S) passano a una posizione netta (R).
+
+### File
+
 
 | File | Contenuto |
 |---|---|
 | `results/metrics_history.csv` | Metriche per step: Fase 2 + Fase 3 con fact-checker |
 | `results/phase3_report.json` | Report finale della run con fact-checker (seed CELF, reach, copertura, delta) |
 | `results/phase3_report_control.json` | Report finale della run di controllo |
+| `results/metrics_history_control.csv` | Metriche per step: Fase 2 + Fase 3 di controllo |
 | `results/pipeline_summary*.json` | Riepilogo della pipeline |
 | `results/phase3_comparison.json` | Effetto dell'intervento (intervento − controllo), finale e per step |
 | `results/figures/` | Validazione del sottografo, evoluzione di Fase 2, confronto di Fase 3, rete iniziale e finale |
